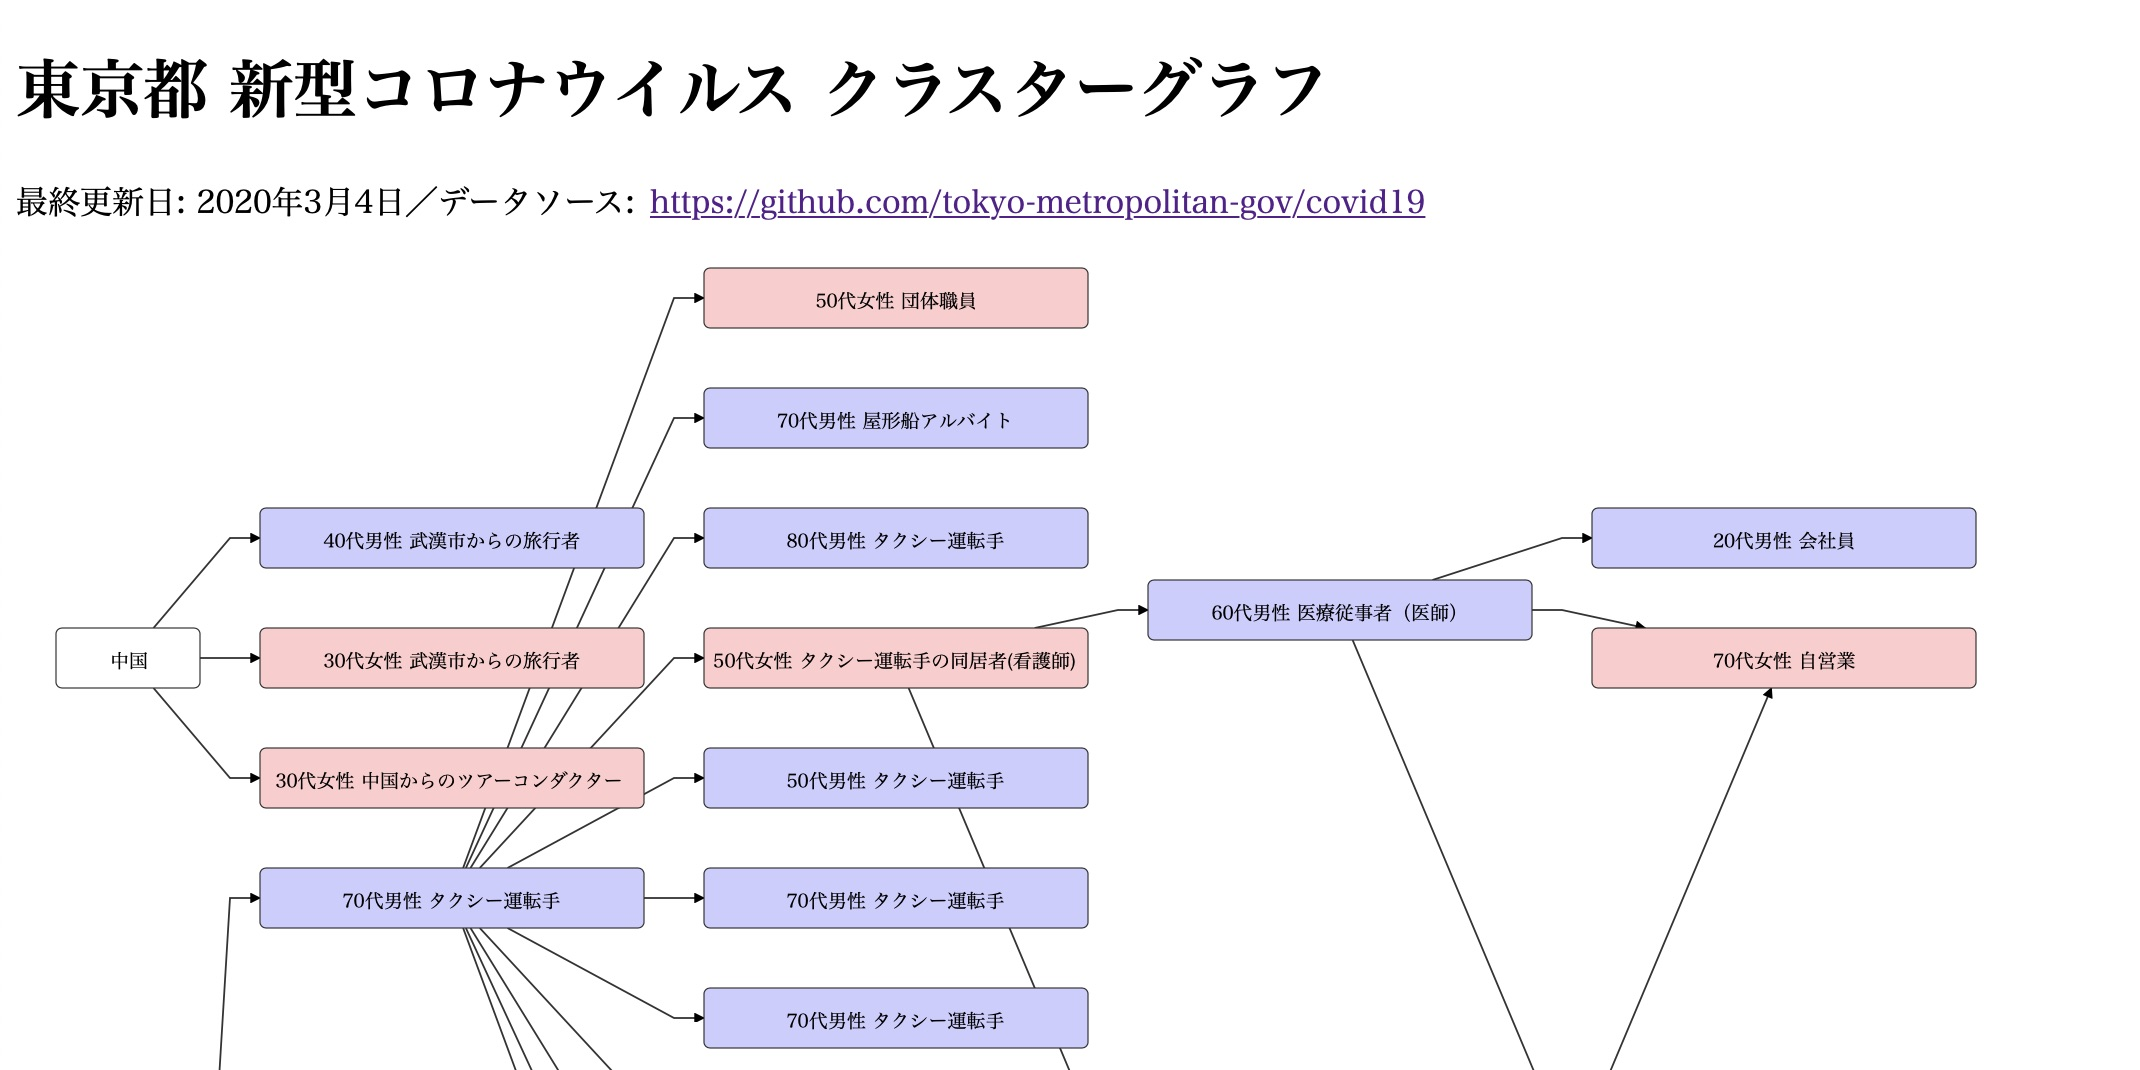
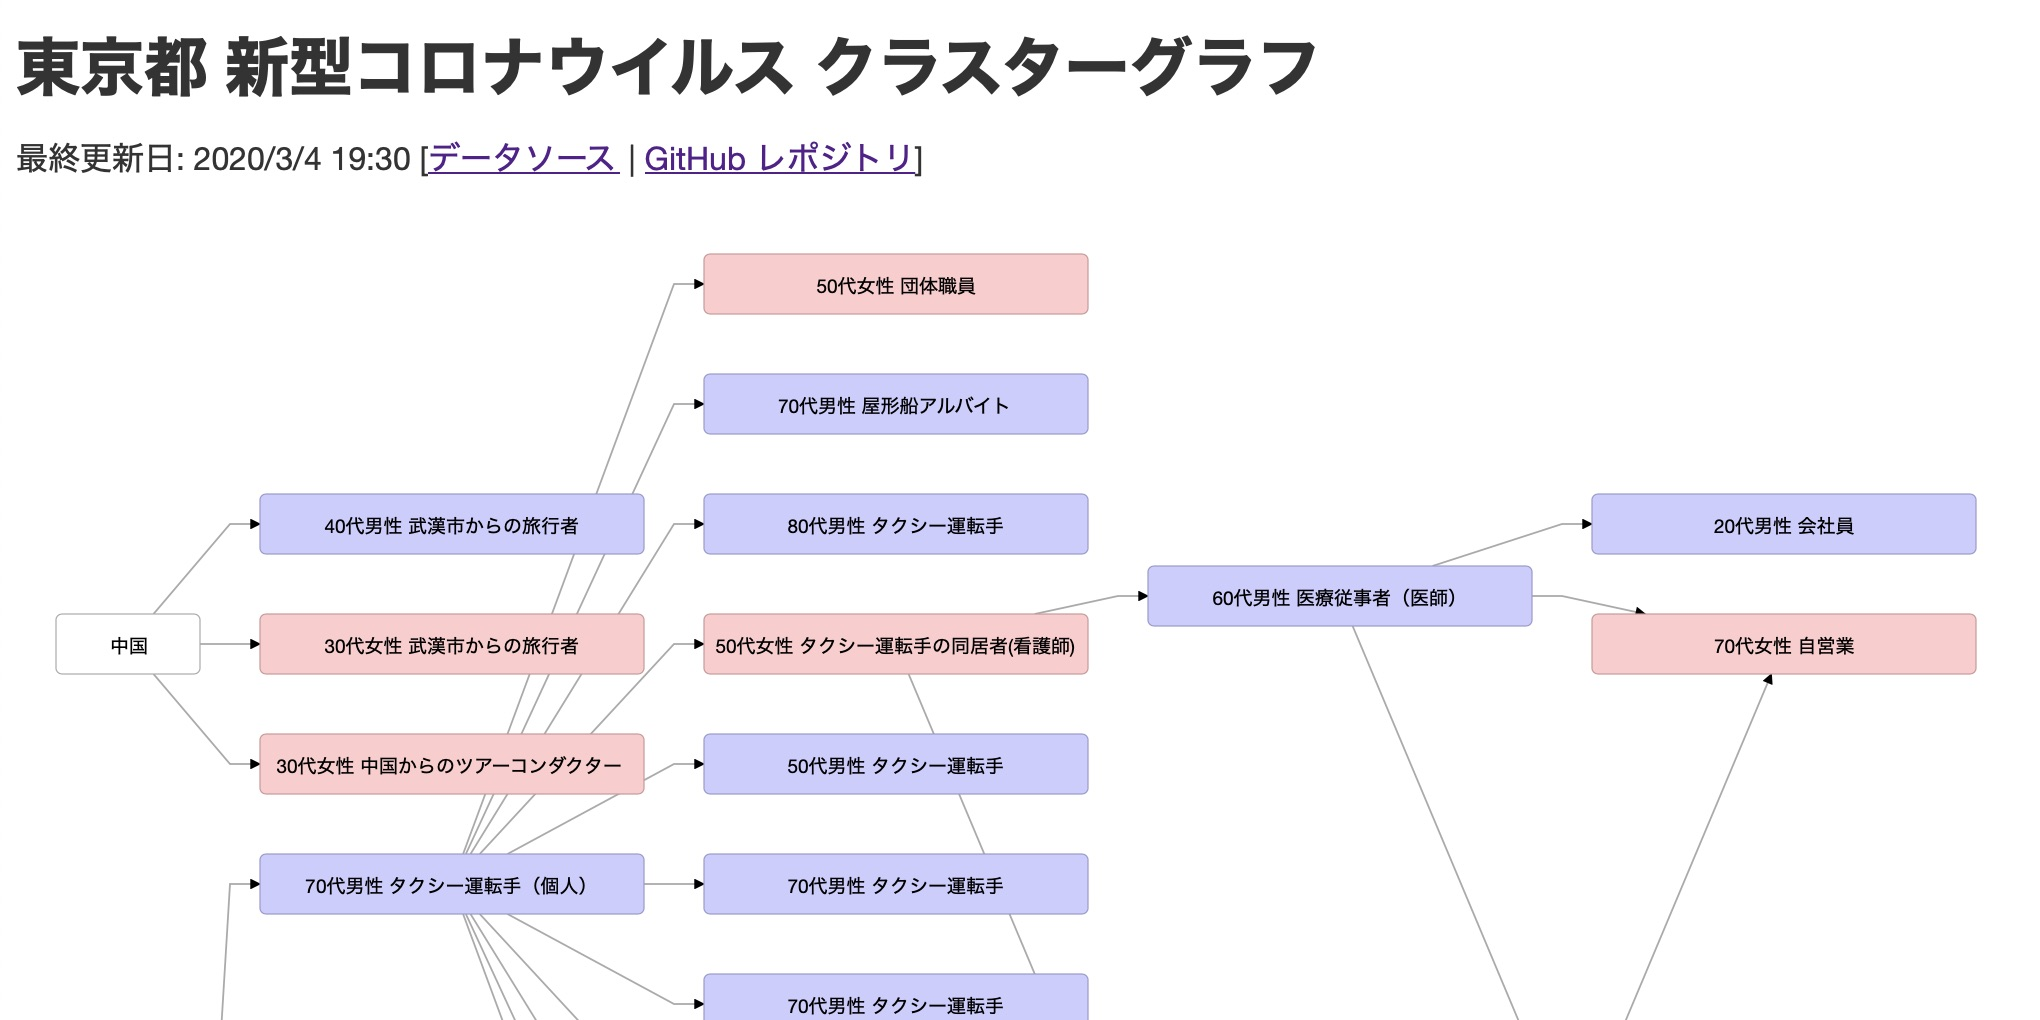
Load data from the data source directly

diff --git a/js/main.js b/js/main.js
@@ -1,123 +1,128 @@
-var nodes = [
-    { id: "china", label: "中国", width: 100, height: 30, rx: 5, ry: 5, style: "stroke: #333; fill: #fff;" },
-    { id: "unknown", label: "不明", width: 100, height: 30, rx: 5, ry: 5, style: "stroke: #333; fill: #fff;" },
-    { id: "non-tokyo", label: "都外", width: 100, height: 30, rx: 5, ry: 5, style: "stroke: #333; fill: #fff;" },
-    { id: "1", label: "40代男性 武漢市からの旅行者", width: 300, height: 30, rx: 5, ry: 5, style: "stroke: #333; fill: #ccf;" },
-    { id: "2", label: "30代女性 武漢市からの旅行者", width: 300, height: 30, rx: 5, ry: 5, style: "stroke: #333; fill: #fcc;" },
-    { id: "3", label: "30代女性 中国からのツアーコンダクター", width: 300, height: 30, rx: 5, ry: 5, style: "stroke: #333; fill: #fcc;" },
-    { id: "4", label: "70代男性 タクシー運転手", width: 300, height: 30, rx: 5, ry: 5, style: "stroke: #333; fill: #ccf;" },
-    { id: "5", label: "50代女性 団体職員", width: 300, height: 30, rx: 5, ry: 5, style: "stroke: #333; fill: #fcc;" },
-    { id: "6", label: "70代男性 屋形船アルバイト", width: 300, height: 30, rx: 5, ry: 5, style: "stroke: #333; fill: #ccf;" },
-    { id: "7", label: "80代男性 タクシー運転手", width: 300, height: 30, rx: 5, ry: 5, style: "stroke: #333; fill: #ccf;" },
-    { id: "8", label: "50代女性 タクシー運転手の同居者(看護師)", width: 300, height: 30, rx: 5, ry: 5, style: "stroke: #333; fill: #fcc;" },
-    { id: "9", label: "50代男性 タクシー運転手", width: 300, height: 30, rx: 5, ry: 5, style: "stroke: #333; fill: #ccf;" },
-    { id: "10", label: "70代男性 タクシー運転手", width: 300, height: 30, rx: 5, ry: 5, style: "stroke: #333; fill: #ccf;" },
-    { id: "11", label: "70代男性 タクシー運転手", width: 300, height: 30, rx: 5, ry: 5, style: "stroke: #333; fill: #ccf;" },
-    { id: "12", label: "40代男性 屋形船従事者", width: 300, height: 30, rx: 5, ry: 5, style: "stroke: #333; fill: #ccf;" },
-    { id: "13", label: "60代女性 タクシー運転手の同居者", width: 300, height: 30, rx: 5, ry: 5, style: "stroke: #333; fill: #fcc;" },
-    { id: "14", label: "40代男性 会社員", width: 300, height: 30, rx: 5, ry: 5, style: "stroke: #333; fill: #ccf;" },
-    { id: "15", label: "60代男性 タクシー運転手", width: 300, height: 30, rx: 5, ry: 5, style: "stroke: #333; fill: #ccf;" },
-    { id: "16", label: "30代男性 タクシー運転手の同居者", width: 300, height: 30, rx: 5, ry: 5, style: "stroke: #333; fill: #ccf;" },
-    { id: "17", label: "60代男性 医療従事者（医師）", width: 300, height: 30, rx: 5, ry: 5, style: "stroke: #333; fill: #ccf;" },
-    { id: "18", label: "60代男性 ハイヤー運転手", width: 300, height: 30, rx: 5, ry: 5, style: "stroke: #333; fill: #ccf;" },
-    { id: "19", label: "30代男性 ハイヤー運転手", width: 300, height: 30, rx: 5, ry: 5, style: "stroke: #333; fill: #ccf;" },
-    { id: "20", label: "80代男性 無職", width: 300, height: 30, rx: 5, ry: 5, style: "stroke: #f00; stroke-width: 3; fill: #ccf;" },
-    { id: "21", label: "20代男性 会社員", width: 300, height: 30, rx: 5, ry: 5, style: "stroke: #333; fill: #ccf;" },
-    { id: "22", label: "50代男性 会社員", width: 300, height: 30, rx: 5, ry: 5, style: "stroke: #333; fill: #ccf;" },
-    { id: "23", label: "70代男性 無職", width: 300, height: 30, rx: 5, ry: 5, style: "stroke: #333; fill: #ccf;" },
-    { id: "24", label: "70代女性 無職", width: 300, height: 30, rx: 5, ry: 5, style: "stroke: #333; fill: #fcc;" },
-    { id: "25", label: "70代女性 無職", width: 300, height: 30, rx: 5, ry: 5, style: "stroke: #333; fill: #fcc;" },
-    { id: "26", label: "50代女性 パート職員", width: 300, height: 30, rx: 5, ry: 5, style: "stroke: #333; fill: #fcc;" },
-    { id: "27", label: "70代女性 自営業", width: 300, height: 30, rx: 5, ry: 5, style: "stroke: #333; fill: #fcc;" },
-    { id: "28", label: "50代女性 無職", width: 300, height: 30, rx: 5, ry: 5, style: "stroke: #333; fill: #fcc;" },
-    { id: "29", label: "60代男性 施設職員", width: 300, height: 30, rx: 5, ry: 5, style: "stroke: #333; fill: #ccf;" },
-    { id: "30", label: "40代男性 会社員", width: 300, height: 30, rx: 5, ry: 5, style: "stroke: #333; fill: #ccf;" },
-    { id: "31", label: "50代男性 会社員", width: 300, height: 30, rx: 5, ry: 5, style: "stroke: #333; fill: #ccf;" },
-    { id: "32", label: "30代男性 会社員", width: 300, height: 30, rx: 5, ry: 5, style: "stroke: #333; fill: #ccf;" },
-    { id: "33", label: "80代男性 無職", width: 300, height: 30, rx: 5, ry: 5, style: "stroke: #333; fill: #ccf;" },
-    { id: "34", label: "70代男性 会社員", width: 300, height: 30, rx: 5, ry: 5, style: "stroke: #333; fill: #ccf;" },
-    { id: "35", label: "70代男性 会社員", width: 300, height: 30, rx: 5, ry: 5, style: "stroke: #333; fill: #ccf;" },
-    { id: "36", label: "60代女性 無職", width: 300, height: 30, rx: 5, ry: 5, style: "stroke: #333; fill: #fcc;" },
-    { id: "37", label: "20代女性 医療従事者", width: 300, height: 30, rx: 5, ry: 5, style: "stroke: #333; fill: #fcc;" },
-    { id: "38", label: "50代女性 医療従事者", width: 300, height: 30, rx: 5, ry: 5, style: "stroke: #333; fill: #fcc;" },
-    { id: "39", label: "70代男性 無職", width: 300, height: 30, rx: 5, ry: 5, style: "stroke: #333; fill: #ccf;" },
-    { id: "40", label: "50代女性 会社員", width: 300, height: 30, rx: 5, ry: 5, style: "stroke: #333; fill: #fcc;" },
-    { id: "41", label: "80代女性 無職", width: 300, height: 30, rx: 5, ry: 5, style: "stroke: #333; fill: #fcc;" },
-    { id: "42", label: "30代女性 施設職員", width: 300, height: 30, rx: 5, ry: 5, style: "stroke: #333; fill: #fcc;" },
-    { id: "43", label: "50代男性 会社員", width: 300, height: 30, rx: 5, ry: 5, style: "stroke: #333; fill: #ccf;" },
-    { id: "44", label: "40代女性 会社員", width: 300, height: 30, rx: 5, ry: 5, style: "stroke: #333; fill: #fcc;" }
+/*
+ * Copyright 2020 Akihiko Kusanagi
+ *
+ *    Licensed under the Apache License, Version 2.0 (the "License");
+ *    you may not use this file except in compliance with the License.
+ *    You may obtain a copy of the License at
+ *
+ *        http://www.apache.org/licenses/LICENSE-2.0
+ *
+ *    Unless required by applicable law or agreed to in writing, software
+ *    distributed under the License is distributed on an "AS IS" BASIS,
+ *    WITHOUT WARRANTIES OR CONDITIONS OF ANY KIND, either express or implied.
+ *    See the License for the specific language governing permissions and
+ *    limitations under the License.
+ *
+ * More information about this project is available at:
+ *
+ *    https://github.com/nagix/covid19-tokyo-graph
+ */
+
+var DATA_URL = 'https://cdn.jsdelivr.net/gh/tokyo-metropolitan-gov/covid19@development/data/data.json';
+
+var initialNodes = [
+	{ id: 'china', label: '中国', width: 100, height: 30, rx: 5, ry: 5, style: 'stroke: #aaa; fill: #fff;' },
+	{ id: 'unknown', label: '不明', width: 100, height: 30, rx: 5, ry: 5, style: 'stroke: #aaa; fill: #fff;' },
+	{ id: 'non-tokyo', label: '都外', width: 100, height: 30, rx: 5, ry: 5, style: 'stroke: #aaa; fill: #fff;' }
 ];
 
-var edges = [
-    { sourceId: "china", targetId: "1", label: "", arrowhead: "normal", lineInterpolate: "monotone", lineTension: 0.0, style: "stroke: #333; fill: none; stroke-width: 1.5px;" },
-    { sourceId: "china", targetId: "2", label: "", arrowhead: "normal", lineInterpolate: "monotone", lineTension: 0.0, style: "stroke: #333; fill: none; stroke-width: 1.5px;" },
-    { sourceId: "china", targetId: "3", label: "", arrowhead: "normal", lineInterpolate: "monotone", lineTension: 0.0, style: "stroke: #333; fill: none; stroke-width: 1.5px;" },
-    { sourceId: "unknown", targetId: "4", label: "", arrowhead: "normal", lineInterpolate: "monotone", lineTension: 0.0, style: "stroke: #333; fill: none; stroke-width: 1.5px;" },
-    { sourceId: "4", targetId: "5", label: "", arrowhead: "normal", lineInterpolate: "monotone", lineTension: 0.0, style: "stroke: #333; fill: none; stroke-width: 1.5px;" },
-    { sourceId: "4", targetId: "6", label: "", arrowhead: "normal", lineInterpolate: "monotone", lineTension: 0.0, style: "stroke: #333; fill: none; stroke-width: 1.5px;" },
-    { sourceId: "4", targetId: "7", label: "", arrowhead: "normal", lineInterpolate: "monotone", lineTension: 0.0, style: "stroke: #333; fill: none; stroke-width: 1.5px;" },
-    { sourceId: "4", targetId: "8", label: "", arrowhead: "normal", lineInterpolate: "monotone", lineTension: 0.0, style: "stroke: #333; fill: none; stroke-width: 1.5px;" },
-    { sourceId: "4", targetId: "9", label: "", arrowhead: "normal", lineInterpolate: "monotone", lineTension: 0.0, style: "stroke: #333; fill: none; stroke-width: 1.5px;" },
-    { sourceId: "4", targetId: "10", label: "", arrowhead: "normal", lineInterpolate: "monotone", lineTension: 0.0, style: "stroke: #333; fill: none; stroke-width: 1.5px;" },
-    { sourceId: "4", targetId: "11", label: "", arrowhead: "normal", lineInterpolate: "monotone", lineTension: 0.0, style: "stroke: #333; fill: none; stroke-width: 1.5px;" },
-    { sourceId: "4", targetId: "12", label: "", arrowhead: "normal", lineInterpolate: "monotone", lineTension: 0.0, style: "stroke: #333; fill: none; stroke-width: 1.5px;" },
-    { sourceId: "4", targetId: "13", label: "", arrowhead: "normal", lineInterpolate: "monotone", lineTension: 0.0, style: "stroke: #333; fill: none; stroke-width: 1.5px;" },
-    { sourceId: "unknown", targetId: "14", label: "", arrowhead: "normal", lineInterpolate: "monotone", lineTension: 0.0, style: "stroke: #333; fill: none; stroke-width: 1.5px;" },
-    { sourceId: "4", targetId: "15", label: "", arrowhead: "normal", lineInterpolate: "monotone", lineTension: 0.0, style: "stroke: #333; fill: none; stroke-width: 1.5px;" },
-    { sourceId: "4", targetId: "16", label: "", arrowhead: "normal", lineInterpolate: "monotone", lineTension: 0.0, style: "stroke: #333; fill: none; stroke-width: 1.5px;" },
-    { sourceId: "8", targetId: "17", label: "", arrowhead: "normal", lineInterpolate: "monotone", lineTension: 0.0, style: "stroke: #333; fill: none; stroke-width: 1.5px;" },
-    { sourceId: "unknown", targetId: "18", label: "", arrowhead: "normal", lineInterpolate: "monotone", lineTension: 0.0, style: "stroke: #333; fill: none; stroke-width: 1.5px;" },
-    { sourceId: "14", targetId: "19", label: "", arrowhead: "normal", lineInterpolate: "monotone", lineTension: 0.0, style: "stroke: #333; fill: none; stroke-width: 1.5px;" },
-    { sourceId: "unknown", targetId: "20", label: "", arrowhead: "normal", lineInterpolate: "monotone", lineTension: 0.0, style: "stroke: #333; fill: none; stroke-width: 1.5px;" },
-    { sourceId: "17", targetId: "21", label: "", arrowhead: "normal", lineInterpolate: "monotone", lineTension: 0.0, style: "stroke: #333; fill: none; stroke-width: 1.5px;" },
-    { sourceId: "unknown", targetId: "22", label: "", arrowhead: "normal", lineInterpolate: "monotone", lineTension: 0.0, style: "stroke: #333; fill: none; stroke-width: 1.5px;" },
-    { sourceId: "unknown", targetId: "23", label: "", arrowhead: "normal", lineInterpolate: "monotone", lineTension: 0.0, style: "stroke: #333; fill: none; stroke-width: 1.5px;" },
-    { sourceId: "23", targetId: "24", label: "", arrowhead: "normal", lineInterpolate: "monotone", lineTension: 0.0, style: "stroke: #333; fill: none; stroke-width: 1.5px;" },
-    { sourceId: "20", targetId: "25", label: "", arrowhead: "normal", lineInterpolate: "monotone", lineTension: 0.0, style: "stroke: #333; fill: none; stroke-width: 1.5px;" },
-    { sourceId: "unknown", targetId: "26", label: "", arrowhead: "normal", lineInterpolate: "monotone", lineTension: 0.0, style: "stroke: #333; fill: none; stroke-width: 1.5px;" },
-    { sourceId: "8", targetId: "27", label: "", arrowhead: "normal", lineInterpolate: "monotone", lineTension: 0.0, style: "stroke: #333; fill: none; stroke-width: 1.5px;" },
-    { sourceId: "17", targetId: "27", label: "", arrowhead: "normal", lineInterpolate: "monotone", lineTension: 0.0, style: "stroke: #333; fill: none; stroke-width: 1.5px;" },
-    { sourceId: "17", targetId: "28", label: "", arrowhead: "normal", lineInterpolate: "monotone", lineTension: 0.0, style: "stroke: #333; fill: none; stroke-width: 1.5px;" },
-    { sourceId: "unknown", targetId: "29", label: "", arrowhead: "normal", lineInterpolate: "monotone", lineTension: 0.0, style: "stroke: #333; fill: none; stroke-width: 1.5px;" },
-    { sourceId: "unknown", targetId: "30", label: "", arrowhead: "normal", lineInterpolate: "monotone", lineTension: 0.0, style: "stroke: #333; fill: none; stroke-width: 1.5px;" },
-    { sourceId: "non-tokyo", targetId: "31", label: "", arrowhead: "normal", lineInterpolate: "monotone", lineTension: 0.0, style: "stroke: #333; fill: none; stroke-width: 1.5px;" },
-    { sourceId: "unknown", targetId: "32", label: "", arrowhead: "normal", lineInterpolate: "monotone", lineTension: 0.0, style: "stroke: #333; fill: none; stroke-width: 1.5px;" },
-    { sourceId: "unknown", targetId: "33", label: "", arrowhead: "normal", lineInterpolate: "monotone", lineTension: 0.0, style: "stroke: #333; fill: none; stroke-width: 1.5px;" },
-    { sourceId: "unknown", targetId: "34", label: "", arrowhead: "normal", lineInterpolate: "monotone", lineTension: 0.0, style: "stroke: #333; fill: none; stroke-width: 1.5px;" },
-    { sourceId: "unknown", targetId: "35", label: "", arrowhead: "normal", lineInterpolate: "monotone", lineTension: 0.0, style: "stroke: #333; fill: none; stroke-width: 1.5px;" },
-    { sourceId: "unknown", targetId: "36", label: "", arrowhead: "normal", lineInterpolate: "monotone", lineTension: 0.0, style: "stroke: #333; fill: none; stroke-width: 1.5px;" },
-    { sourceId: "20", targetId: "37", label: "", arrowhead: "normal", lineInterpolate: "monotone", lineTension: 0.0, style: "stroke: #333; fill: none; stroke-width: 1.5px;" },
-    { sourceId: "25", targetId: "37", label: "", arrowhead: "normal", lineInterpolate: "monotone", lineTension: 0.0, style: "stroke: #333; fill: none; stroke-width: 1.5px;" },
-    { sourceId: "non-tokyo", targetId: "38", label: "", arrowhead: "normal", lineInterpolate: "monotone", lineTension: 0.0, style: "stroke: #333; fill: none; stroke-width: 1.5px;" },
-    { sourceId: "20", targetId: "39", label: "", arrowhead: "normal", lineInterpolate: "monotone", lineTension: 0.0, style: "stroke: #333; fill: none; stroke-width: 1.5px;" },
-    { sourceId: "unknown", targetId: "40", label: "", arrowhead: "normal", lineInterpolate: "monotone", lineTension: 0.0, style: "stroke: #333; fill: none; stroke-width: 1.5px;" },
-    { sourceId: "unknown", targetId: "41", label: "", arrowhead: "normal", lineInterpolate: "monotone", lineTension: 0.0, style: "stroke: #333; fill: none; stroke-width: 1.5px;" },
-    { sourceId: "unknown", targetId: "42", label: "", arrowhead: "normal", lineInterpolate: "monotone", lineTension: 0.0, style: "stroke: #333; fill: none; stroke-width: 1.5px;" },
-    { sourceId: "unknown", targetId: "43", label: "", arrowhead: "normal", lineInterpolate: "monotone", lineTension: 0.0, style: "stroke: #333; fill: none; stroke-width: 1.5px;" },
-    { sourceId: "unknown", targetId: "44", label: "", arrowhead: "normal", lineInterpolate: "monotone", lineTension: 0.0, style: "stroke: #333; fill: none; stroke-width: 1.5px;" }
-];
+var boxColors = {
+	'男性': {stroke: '#99c', fill: '#ccf'},
+	'女性': {stroke: '#c99', fill: '#fcc'}
+};
 
-var graph = new dagreD3.graphlib.Graph({ compound: true });
-graph.setGraph({ rankdir: "LR" });
+function loadJSON(url) {
+	return new Promise(function(resolve, reject) {
+		var request = new XMLHttpRequest();
 
-nodes.forEach(node => graph.setNode(node.id, node));
-edges.forEach(edge => graph.setEdge(edge.sourceId, edge.targetId, edge));
+		request.open('GET', url);
+		request.onreadystatechange = function() {
+			if (request.readyState === 4) {
+				if (request.status === 200) {
+					resolve(JSON.parse(request.response));
+				} else {
+					reject(Error(request.statusText));
+				}
+			}
+		};
+		request.send();
+	});
+}
 
-var svg = d3.select("#network");
-var inner = svg.select("g");
+function fullwidthToHalfwith(s) {
+	return s.replace(/[Ａ-Ｚａ-ｚ０-９]/g, function(s) {
+		return String.fromCharCode(s.charCodeAt(0) - 0xFEE0);
+	});
+}
 
-var zoom = d3.behavior.zoom().on("zoom", function () {
-    inner.attr("transform", "translate(" + d3.event.translate + ")" +
-        "scale(" + d3.event.scale + ")");
+loadJSON(DATA_URL).then(data => {
+
+	var graph = new dagreD3.graphlib.Graph({ compound: true });
+	graph.setGraph({ rankdir: 'LR' });
+
+	initialNodes.forEach(node => graph.setNode(node.id, node));
+
+	data.patients.data.forEach(patient => {
+		var id = patient['No'];
+		var attr = patient['属性'] || '';
+		var remarks = patient['備考'] || '';
+		var supplement = patient['補足'] || '';
+		var dead = remarks.match(/死亡/);
+		var colors = boxColors[patient['性別']];
+		var sourceIds = (supplement.match(/[0-9０-９]+/g) || ['unknown'])
+			.map(fullwidthToHalfwith)
+			.map(sourceId => !isNaN(sourceId) && sourceId < id ? sourceId : 'unknown')
+
+		if (attr.match(/武漢|中国/)) {
+			sourceIds = ['china'];
+		} else if (supplement.match(/都外/)) {
+			sourceIds = ['non-tokyo'];
+		}
+		console.log(id, sourceIds)
+
+		graph.setNode(id, {
+			id: id,
+			label: patient['年代'] + patient['性別'] + ' ' + patient['属性'],
+			width: 300,
+			height: 30,
+			rx: 5,
+			ry: 5,
+			style: 'stroke: ' + (dead ? '#f00' : colors.stroke) +
+				'; stroke-width: ' + (dead ? 3 : 1) +
+				'; fill: ' + colors.fill
+		});
+
+		sourceIds.forEach(sourceId => {
+			graph.setEdge(sourceId, id, {
+				sourceId: sourceId < id ? sourceId : 'unknown',
+				targetId: id,
+				label: '',
+				arrowhead: 'normal',
+				lineInterpolate: 'monotone',
+				lineTension: 0.0,
+				style: 'stroke: #aaa; fill: none; stroke-width: 1.5px;'
+			});
+		});
+	});
+
+	var svg = d3.select('#network');
+	var inner = svg.select('g');
+
+	var zoom = d3.behavior.zoom().on('zoom', function () {
+		inner.attr('transform', 'translate(' + d3.event.translate + ')' +
+			'scale(' + d3.event.scale + ')');
+	});
+	svg.call(zoom);
+
+	var render = new dagreD3.render();
+	render(inner, graph);
+
+	var initialScale = 0.60;
+	zoom
+		.translate([(svg.attr('width') - graph.graph().width * initialScale) / 2, 20])
+		.scale(initialScale)
+		.event(svg);
+	svg.attr('height', graph.graph().height * initialScale + 40);
+
+	document.getElementById('last-update').innerHTML = data.patients.date;
 });
-svg.call(zoom);
-
-var render = new dagreD3.render();
-render(inner, graph);
-
-var initialScale = 0.60;
-zoom
-    .translate([(svg.attr("width") - graph.graph().width * initialScale) / 2, 20])
-    .scale(initialScale)
-    .event(svg);
-svg.attr("height", graph.graph().height * initialScale + 40);

diff --git a/index.html b/index.html
@@ -9,6 +9,7 @@
 		gtag('config', 'UA-39988758-2');
 	</script>
 	<meta http-equiv="Content-Type" content="text/html; charset=utf-8" />
+	<link rel="stylesheet" type="text/css" href="style.css" />
 	<title>東京都 新型コロナウイルス クラスターグラフ</title>
 	<meta name="description" content="A graph of the COVID-19 clusters in Tokyo. This data visualization was produced by Akihiko Kusanagi." />
 	<meta name="viewport" content="user-scalable=no, minimum-scale=1.0, maximum-scale=1.0, initial-scale=1" />
@@ -26,7 +27,7 @@
 </head>
 <body>
 	<h1>東京都 新型コロナウイルス クラスターグラフ</h1>
-	<span>最終更新日: 2020年3月4日／データソース: <a href="https://github.com/tokyo-metropolitan-gov/covid19">https://github.com/tokyo-metropolitan-gov/covid19</a></span>
+	<p>最終更新日: <span id="last-update"></span> [<a href="https://github.com/tokyo-metropolitan-gov/covid19">データソース</a> | <a href="https://github.com/nagix/covid19-tokyo-graph">GitHub レポジトリ</a>]</p>
 	<svg id="network" width=1000 style="width: 1000px"><g></g></svg>
 	<script type="text/javascript" src="js/main.js"></script>
 </body>

diff --git a/style.css b/style.css
@@ -1,0 +1,5 @@
+body {
+	font: 16px/24px 'Helvetica Neue', Arial, Helvetica, sans-serif;
+	color: #333;
+	touch-action: none;
+}
